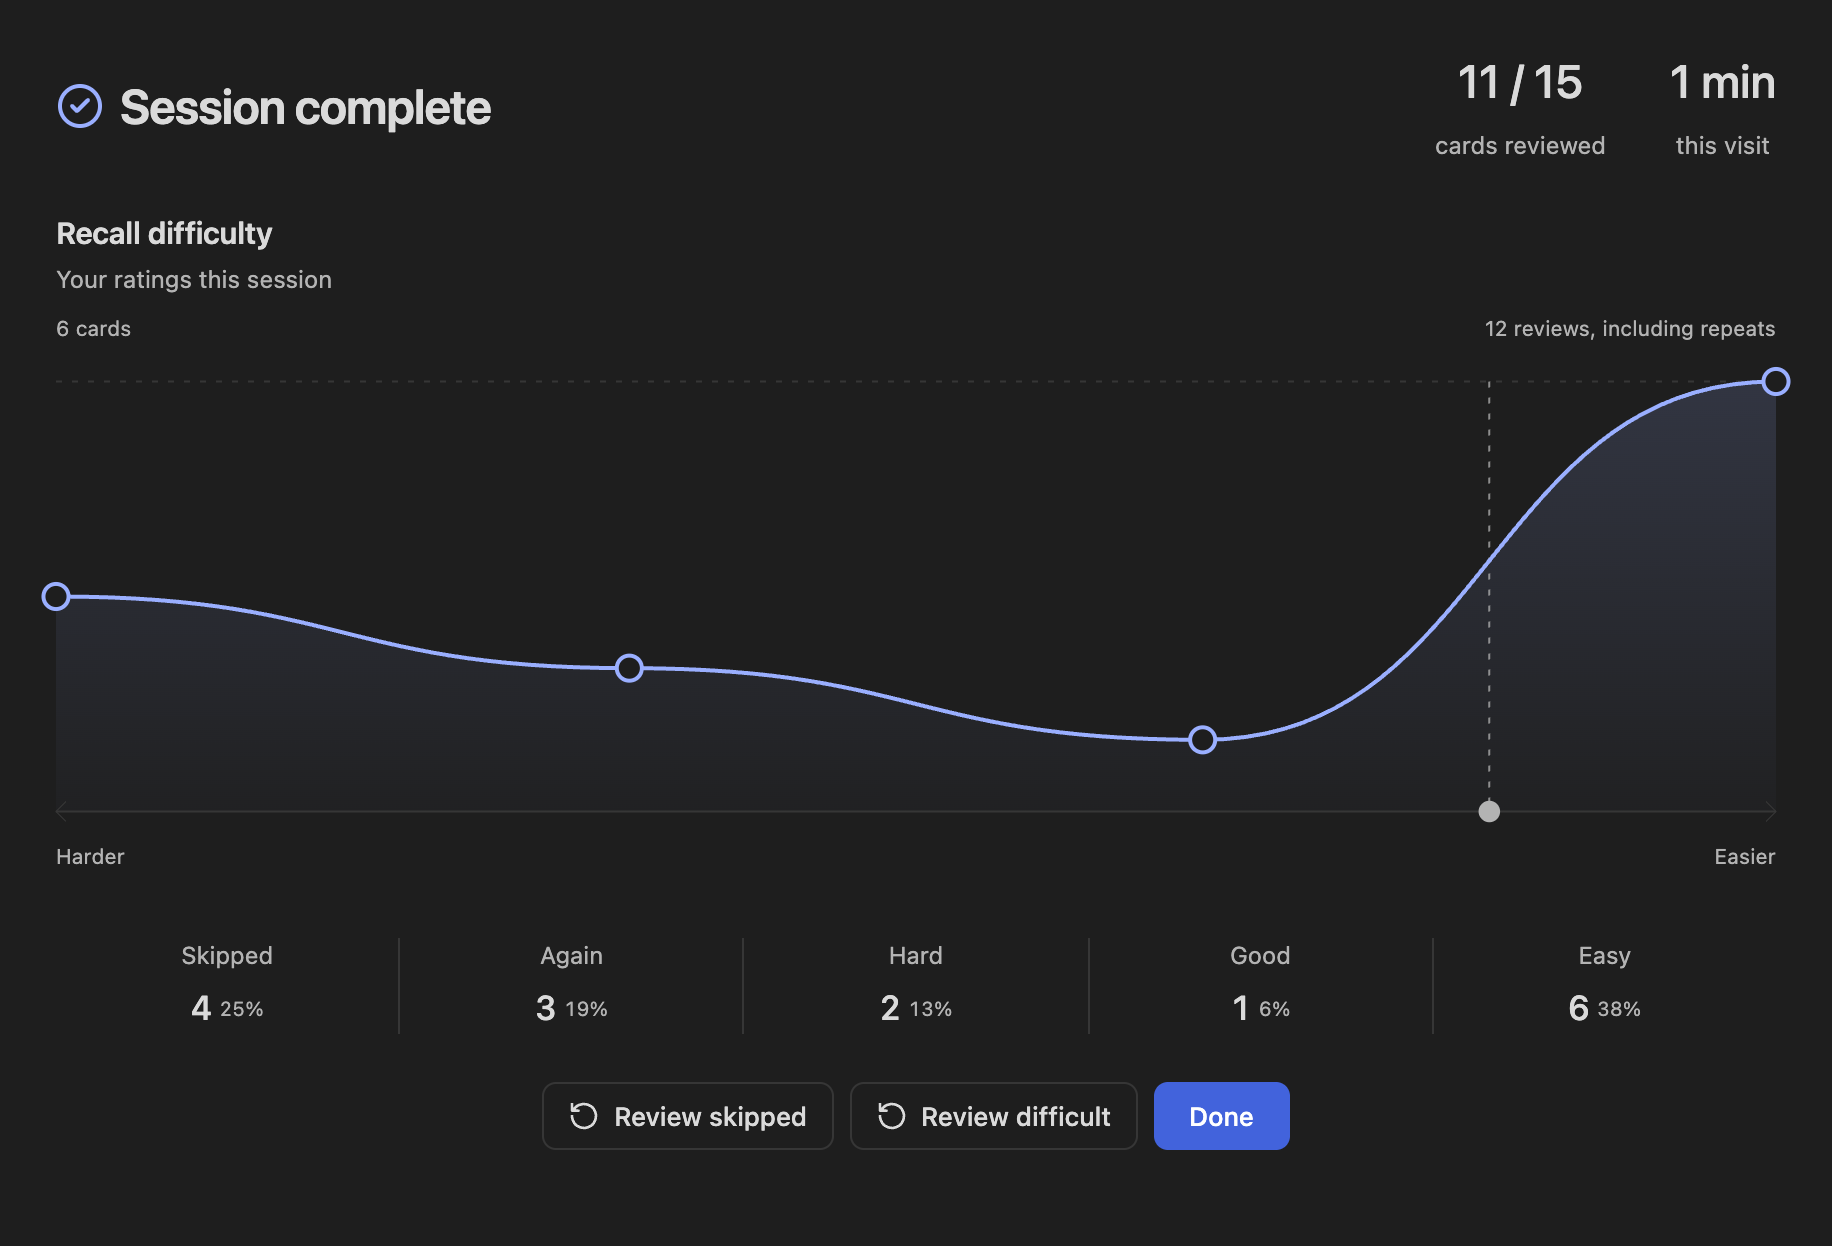
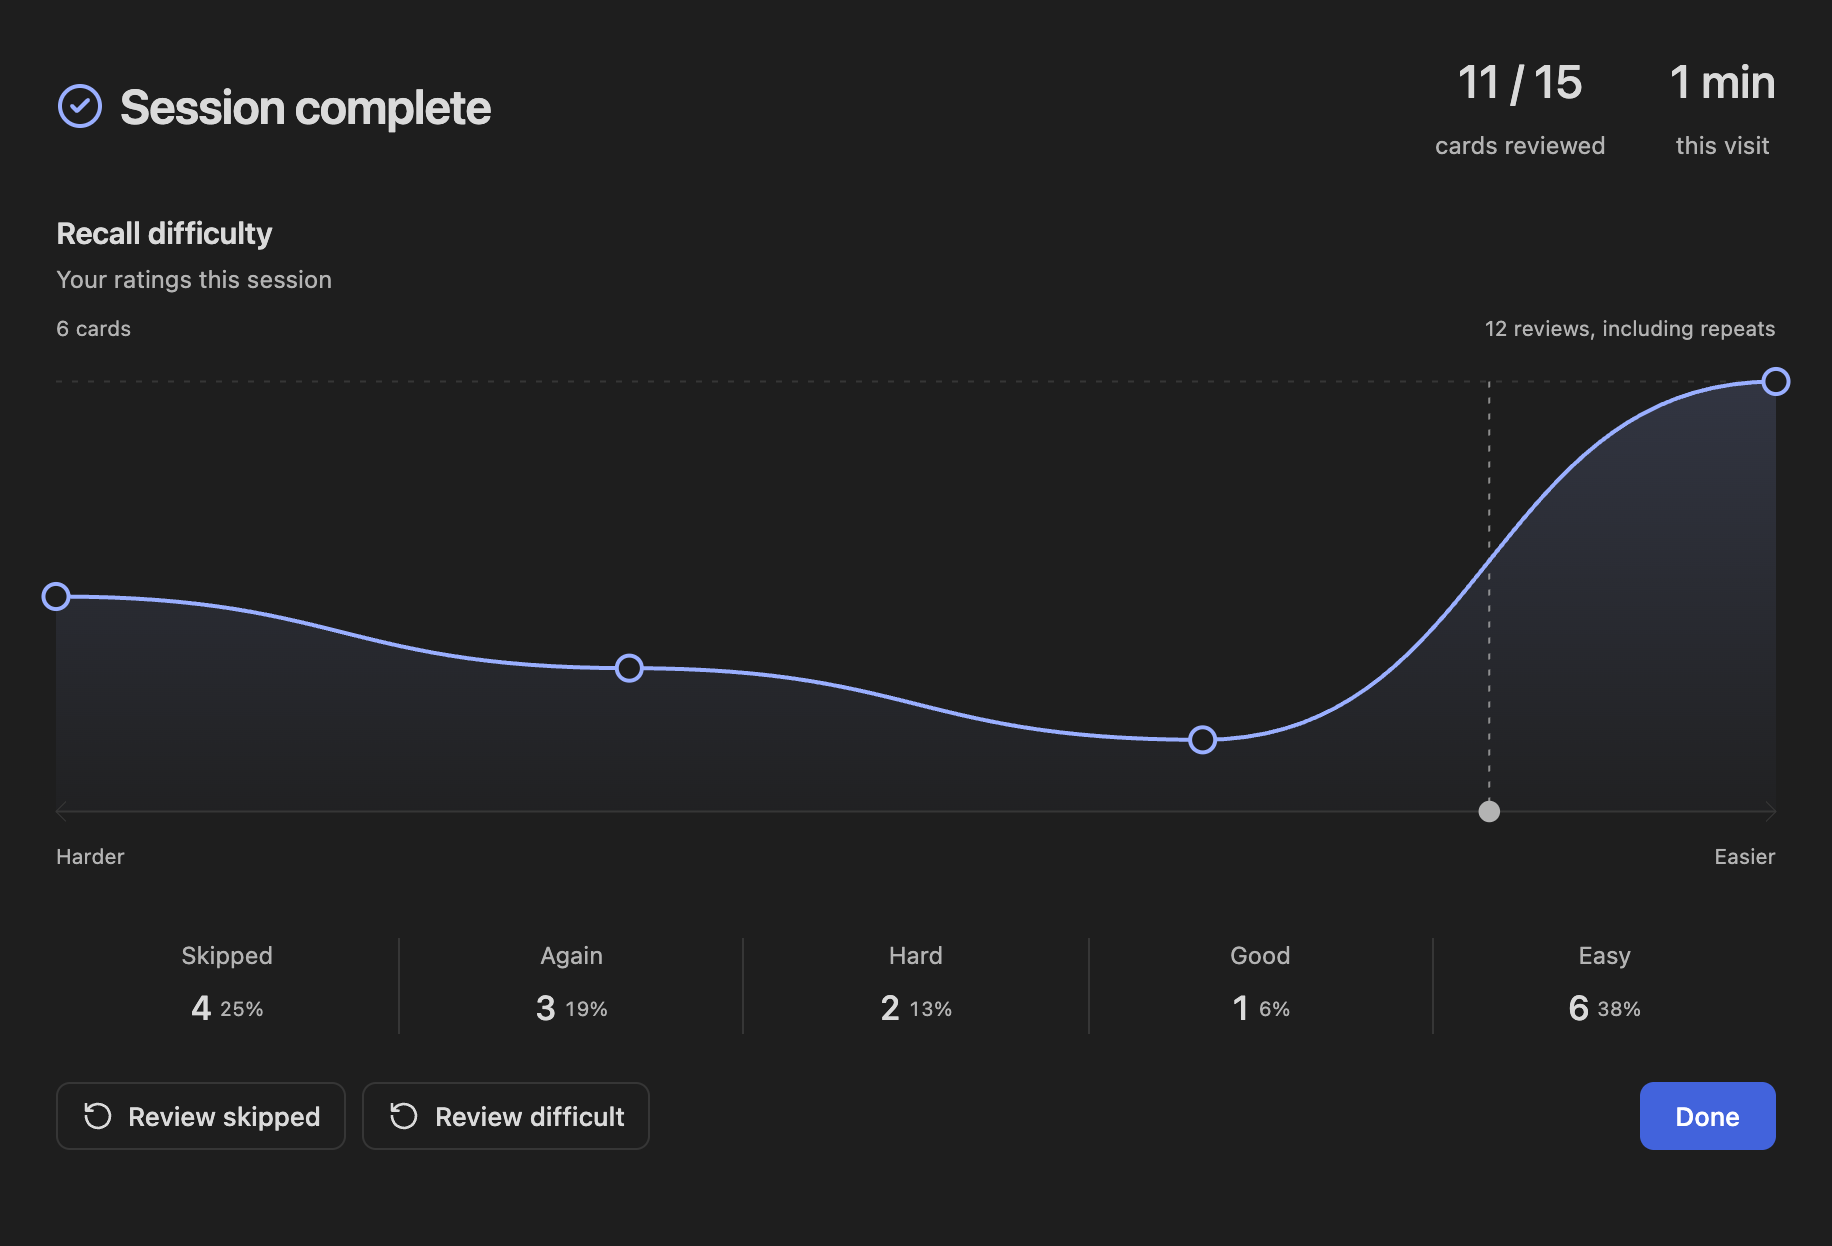
Refresh summary action alignment comparisons

diff --git a/docs/images/ui-main-latest/audit-report.md b/docs/images/ui-main-latest/audit-report.md
@@ -1,3 +1,15 @@
+# Summary action alignment verification
+
+Latest source `617d68c06d15b69abf2b01cda5512950aa698b66`. Screenshot baseline remains upstream main `70056821914f0dae910b52a20f1fa3329b04d0ac`.
+
+- Full-width single-row actions place the review controls at the start and Done at the end, using the existing action gap.
+- Compact panes retain the existing full-width two-row action grid.
+- All 24 browser cases passed across 320–1440px panes in both themes, including the narrow pane in a wide window, skipped-only and Cram states.
+- CSS formatting, CSS lint, production build and release verification passed. Runtime code and the 767-test suite from the preceding revision are unchanged.
+- Both existing session-summary pairs were refreshed. The gallery retains 50 pairs. The isolated Obsidian build was refreshed and protected build hashes still match.
+
+## Prior verification
+
 # Session summary refinement verification
 
 Latest source `cbd05c7adb0e8df23dd3c112c97b7a9ad395f0ba`. Screenshot baseline is upstream main `70056821914f0dae910b52a20f1fa3329b04d0ac`.
